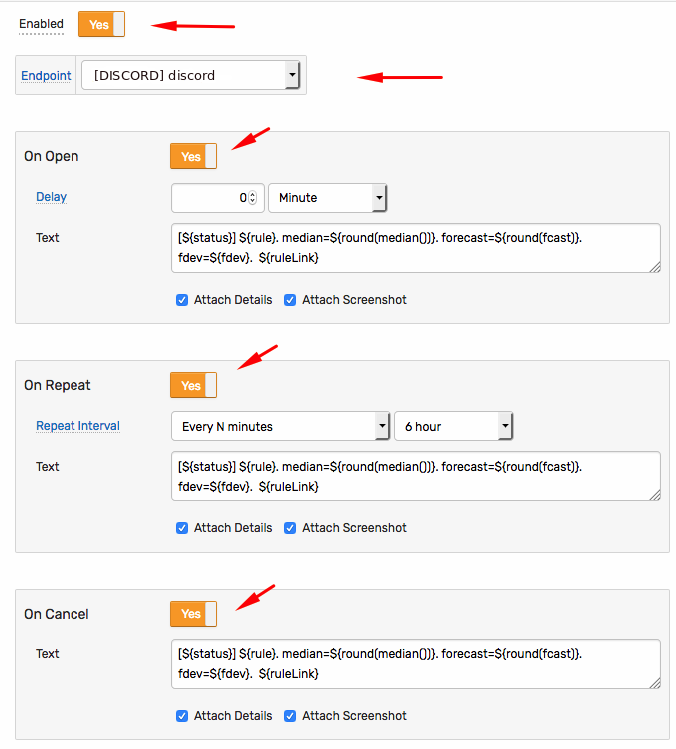
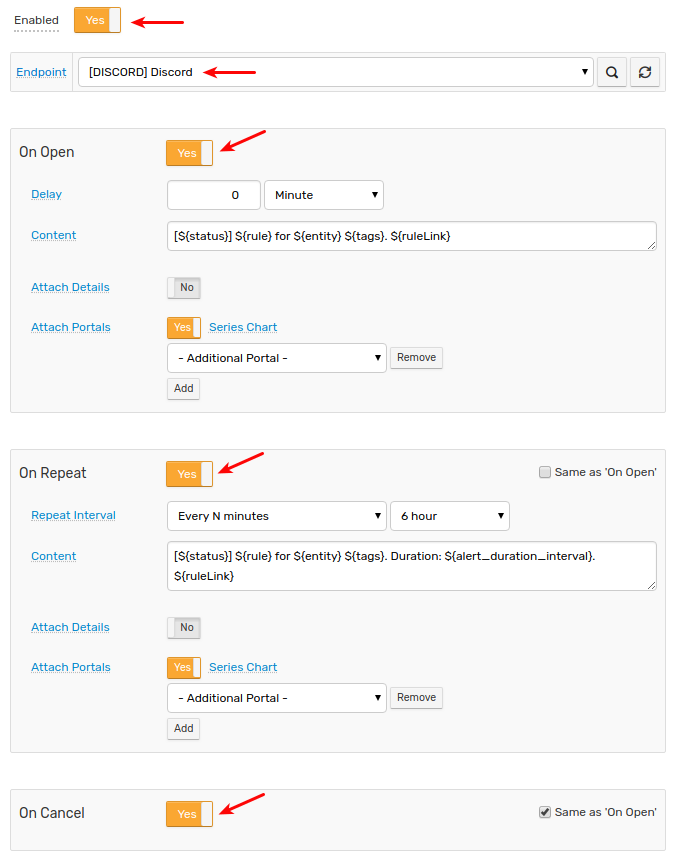
discord.md

diff --git a/rule-engine/notifications/discord.md b/rule-engine/notifications/discord.md
@@ -61,25 +61,22 @@ To join a server, the user should click **Create new server**, select **Join** a
 ## Create Discord Notification in ATSD
 
 * Open the **Alerts > Web Notifications** page.
-* Click on an existing `DISCORD` template, or click the **Create** button and switch the type to `DISCORD`.
+* Click on an existing `DISCORD` template, or click the **Create** button and select the `DISCORD` type.
+* Specify the unique `Name` of the notification.
+
+    ![](images/discord_1.png) 
+    
 * Copy the `Webhook URL` from the Discord client into the `Webhook URL` field in the configuration form.
 * The `Webhook ID` and `Webhook Token` will be filled automatically when you finish editing the `Webhook URL` field.
+* Select **Test Portal** to test the screenshot.
 
     ![](images/discord_settings.png)
 
 * Click **Test**.
 
-   ![](images/discord_hello_from_atsd.png)
+   ![](images/discord_2.png)
 
-* Select **Test Portal** to test the screenshot.
-
-   ![](images/new_test_portal.png)   
-
-* Click **Send Screenshot**.
-
-   ![](images/discord_send_screenshot.png)
-
-* If tests are OK, set the status **Enabled** and click **Save**,  `Webhook URL` field will be cleared.  
+* If test is OK, set the status **Enabled** and click **Save**,  `Webhook URL` field will be cleared.  
 
 ## Proxy Settings
 

diff --git a/rule-engine/variables.md b/rule-engine/variables.md
@@ -93,7 +93,7 @@ To access the n-th element, use square brackets and index starting with `0` for 
 
   ```java
   authors = split(tags.authors, ',')
-  authors.size() == 0 ? 'n/a' : authors[0]
+  authors.size() == 0 ? 'n/a' : authors.get(0)
   ```  
 
 ### map
